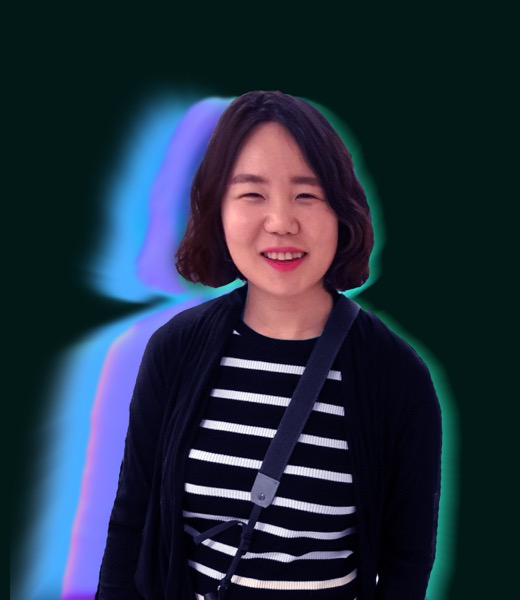
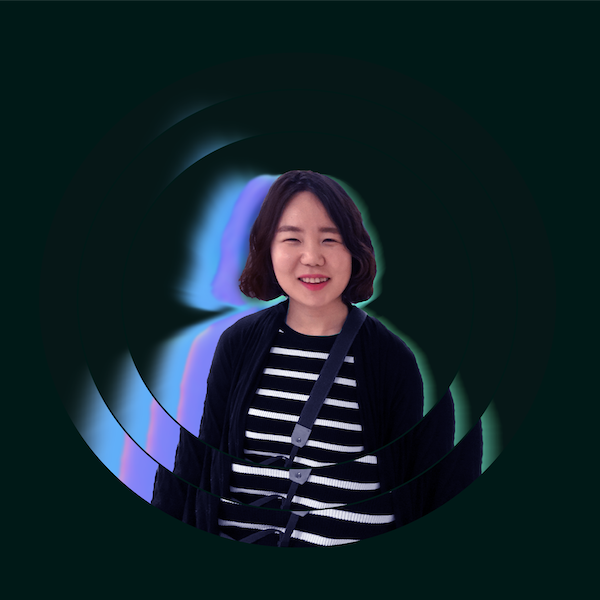
changed yjun001 pic, ammended personal bio --callum

diff --git a/data/bios/cfowl002.md b/data/bios/cfowl002.md
@@ -1,5 +1,5 @@
 Callum Fowler works at the intersection between technology, generative art, and music. His work explores topics surrounding human-computer interactions and relationships. These themes tend to appear to humanise technology or to create novel experiences using technology.
 
-Having a background in audio technology and composition, Callum specialises in audio-visual installations and performances. Over the past year he has also expanded into visual/interactive/web art. Notable works include: [*My Ecology*](https://callumfowler101.github.io/portfolio.html#my_ecology), [*The Happy Computer*](https://callumfowler101.github.io/portfolio.html#happy_computer), [*Human and Computer*](https://callumfowler101.github.io/portfolio.html#human_computer).
+Having a background in audio technology and composition, Callum specialises in audio-visual installations and performances. Over the past year he has also expanded into visual/interactive/web art. Past works include: [*My Ecology*](https://callumfowler101.github.io/portfolio.html#my_ecology), [*The Happy Computer*](https://callumfowler101.github.io/portfolio.html#happy_computer), [*Human and Computer*](https://callumfowler101.github.io/portfolio.html#human_computer).
 
 Callum is also interested in building software for artists to use. Currently he is working on [*Orbs*](https://callumfowler101.github.io/portfolio.html#orbs), a midi visualiser that can be used with digital midi devices. He has also built other mini applications for generative design.
